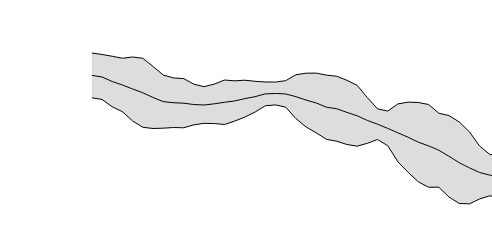
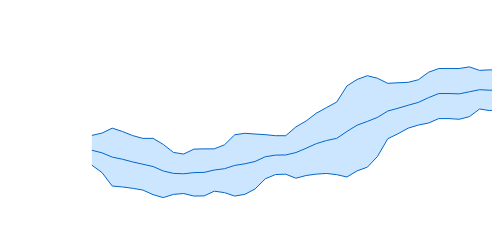
docs: add styles to canvas example (#42)

diff --git a/examples/es5/bollingerBandsCanvas.js b/examples/es5/bollingerBandsCanvas.js
@@ -33,8 +33,24 @@ function bollingerBandsExample() {
         return d.lower;
     });
 
+    var styles = {
+        area: {
+            fillStyle: 'rgba(153, 204, 255, 0.5)',
+            strokeStyle: 'transparent'
+        },
+        upper: { strokeStyle: '#06c' },
+        lower: { strokeStyle: '#06c' },
+        average: { strokeStyle: '#06c' }
+    };
+
     var bollingerBands = function bollingerBands(data) {
-        var multi = fc.seriesCanvasMulti().xScale(xScale).yScale(yScale).context(ctx).series([area, upperLine, lowerLine, averageLine]);
+        var multi = fc.seriesCanvasMulti().xScale(xScale).yScale(yScale).context(ctx).series([area, upperLine, lowerLine, averageLine]).decorate(function (context, data, index) {
+            var series = ['area', 'upper', 'lower', 'average'];
+            Object.assign(context, styles[series[index]]);
+            // .attr('class', (d, i) =>
+            //     'multi bollinger ' + ['area', 'upper', 'lower', 'average'][i]
+            // );
+        });
 
         area.crossValue(crossValue);
         upperLine.crossValue(crossValue);

diff --git a/examples/bollingerBandsCanvas.js b/examples/bollingerBandsCanvas.js
@@ -22,12 +22,26 @@ function bollingerBandsExample() {
     const lowerLine = fc.seriesCanvasLine()
       .mainValue((d, i) => d.lower);
 
+    const styles = {
+        area: {
+            fillStyle: 'rgba(153, 204, 255, 0.5)',
+            strokeStyle: 'transparent'
+        },
+        upper: { strokeStyle: '#06c' },
+        lower: { strokeStyle: '#06c' },
+        average: { strokeStyle: '#06c' }
+    };
+
     const bollingerBands = function(data) {
         const multi = fc.seriesCanvasMulti()
           .xScale(xScale)
           .yScale(yScale)
           .context(ctx)
-          .series([area, upperLine, lowerLine, averageLine]);
+          .series([area, upperLine, lowerLine, averageLine])
+          .decorate((context, data, index) => {
+              const series = ['area', 'upper', 'lower', 'average'];
+              Object.assign(context, styles[series[index]]);
+          });
 
         area.crossValue(crossValue);
         upperLine.crossValue(crossValue);
